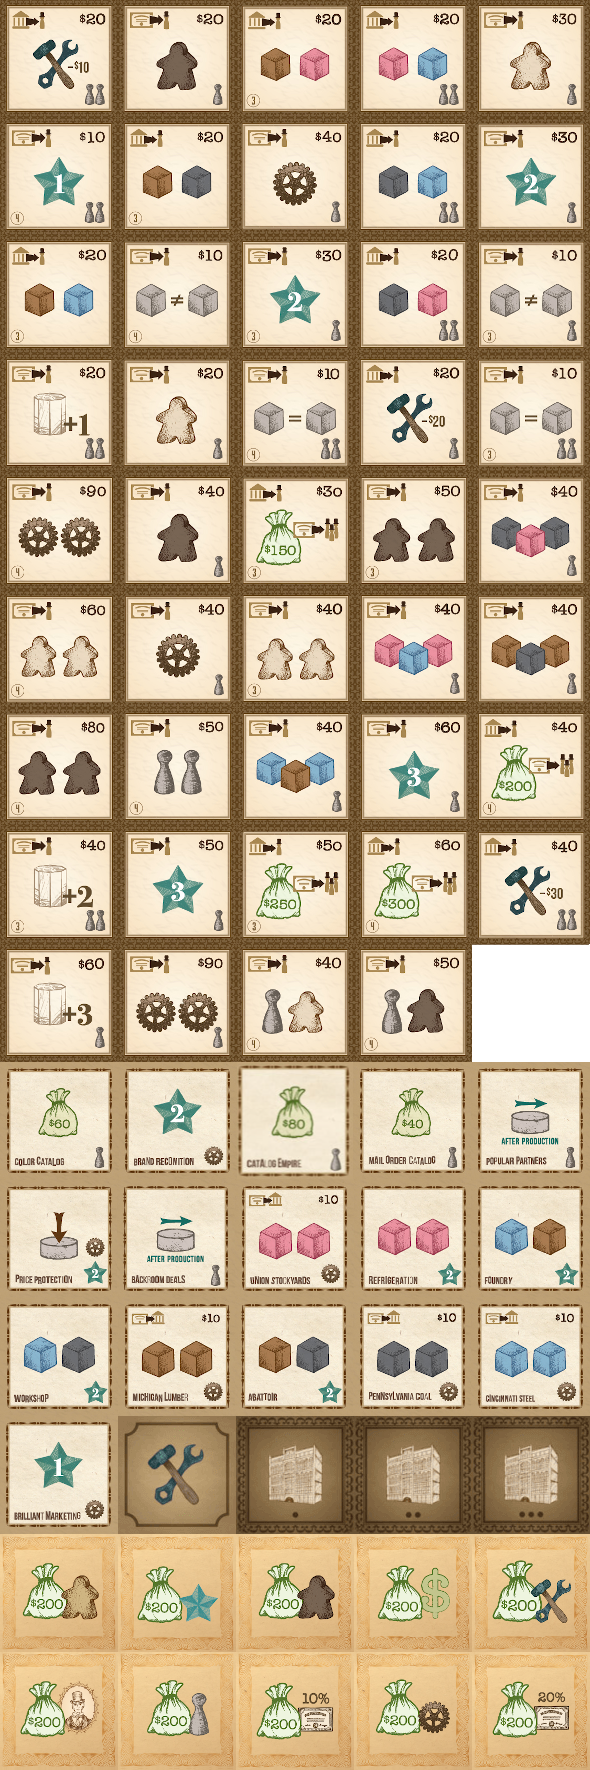
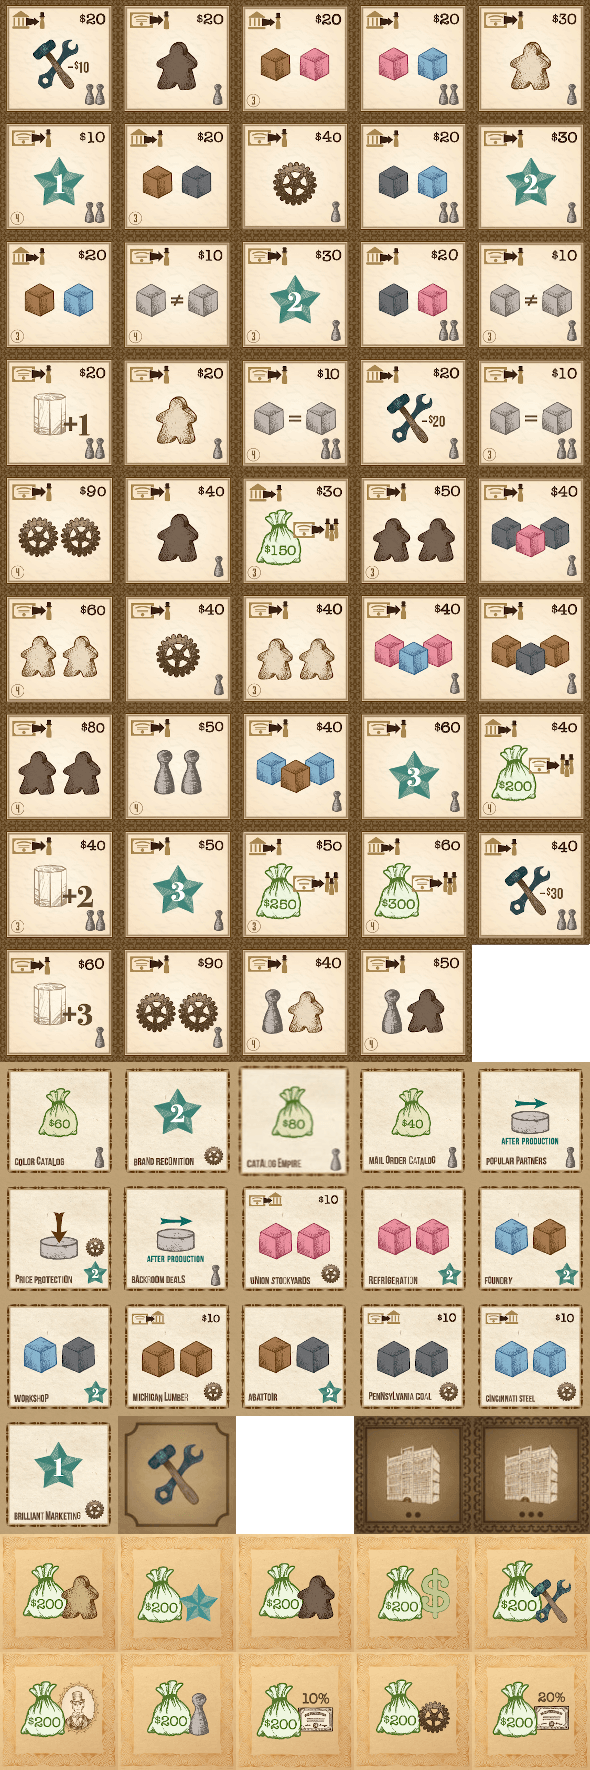
Compress images (no visible change)
Also change compagny tokens alignment

Changed region(s): [[0.3966, 0.7768, 0.6102, 0.8701]]

diff --git a/cityofthebigshoulders.css b/cityofthebigshoulders.css
@@ -292,15 +292,15 @@
 }
 
 .anglo_token {  background-position: 0px 0px; }
-.brunswick_token {  background-position: 0px -20px; }
-.cracker_token {  background-position: 0px -60px; }
-.doggett_token {  background-position: -20px -80px; }
-.elgin_token {  background-position: -20px 0px; }
-.fairbank_token {  background-position: 0px -80px; }
+.brunswick_token {  background-position: -20px 0px; }
+.cracker_token {  background-position: -40px 0px; }
+.doggett_token {  background-position: -60px 0px; }
+.elgin_token {  background-position: -80px 0px; }
+.fairbank_token {  background-position: 0px -20px; }
 .henderson_token {  background-position: -20px -20px; }
-.libby_token {  background-position: 0px -40px; }
-.spalding_token {  background-position: -20px -40px; }
-.swift_token {  background-position: -20px -60px; }
+.libby_token {  background-position: -40px -20px; }
+.spalding_token {  background-position: -60px -20px; }
+.swift_token {  background-position: -80px -20px; }
 
 .automation_holder {
     width: 13px;
